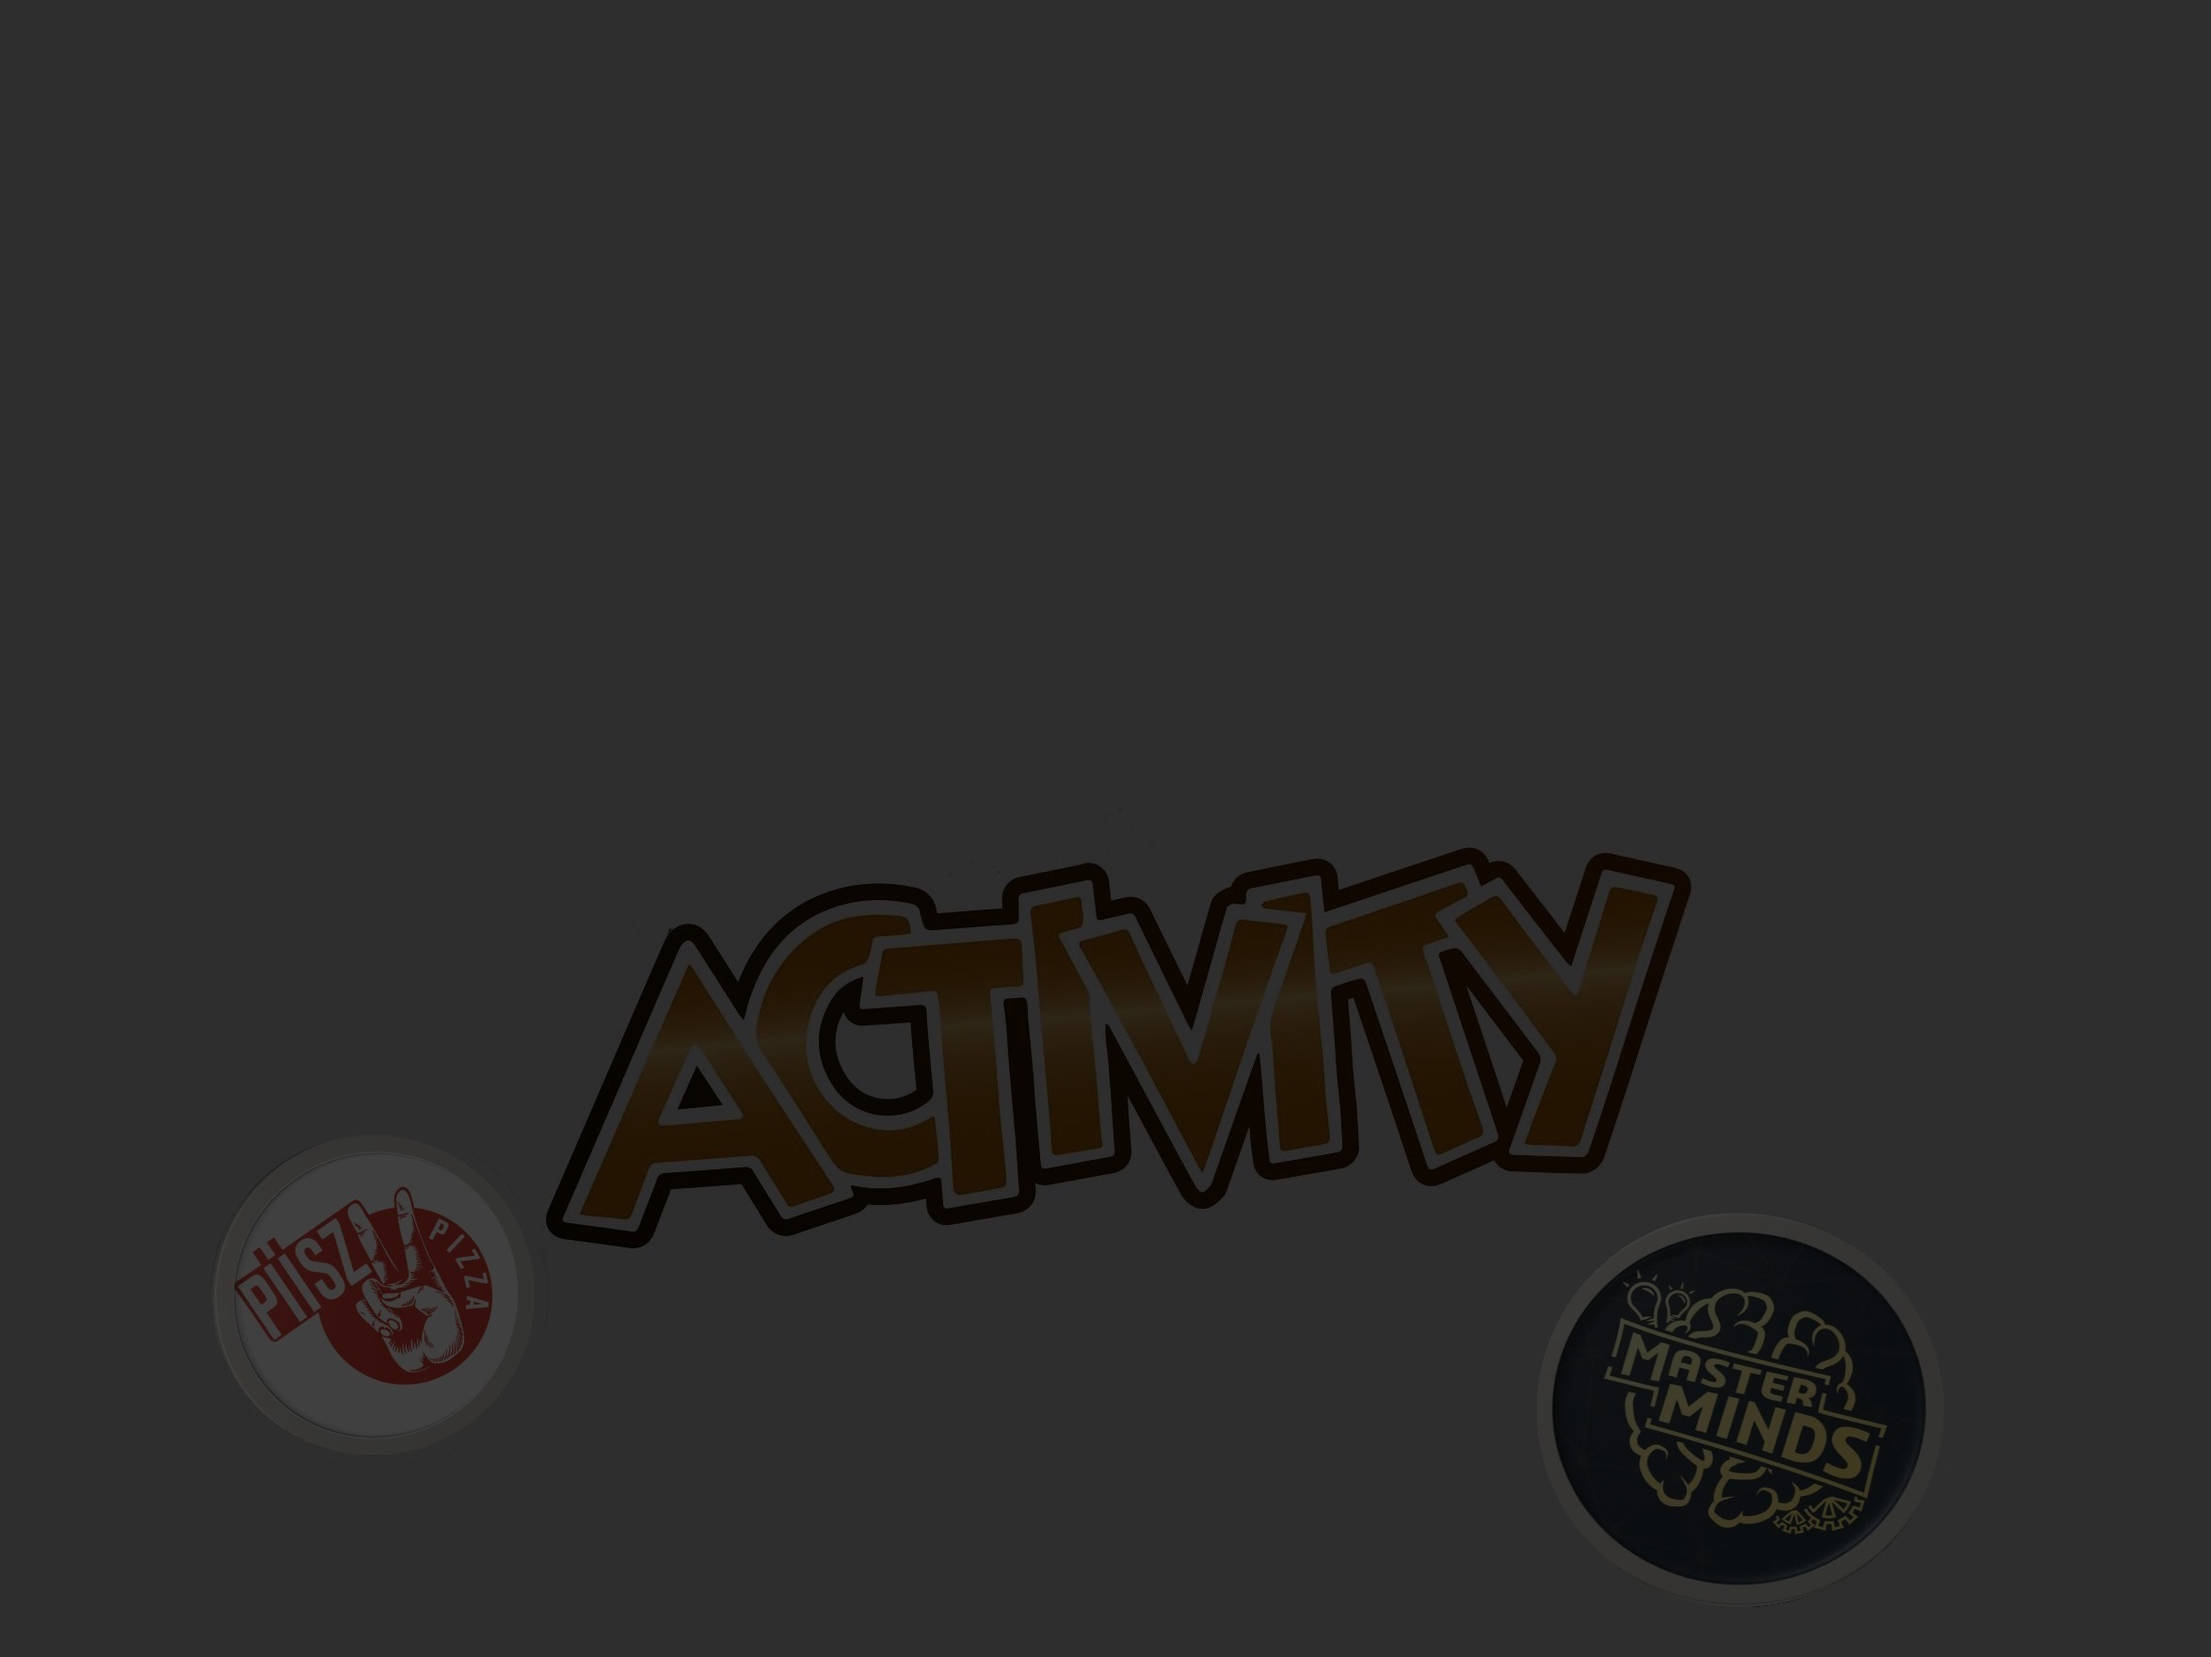
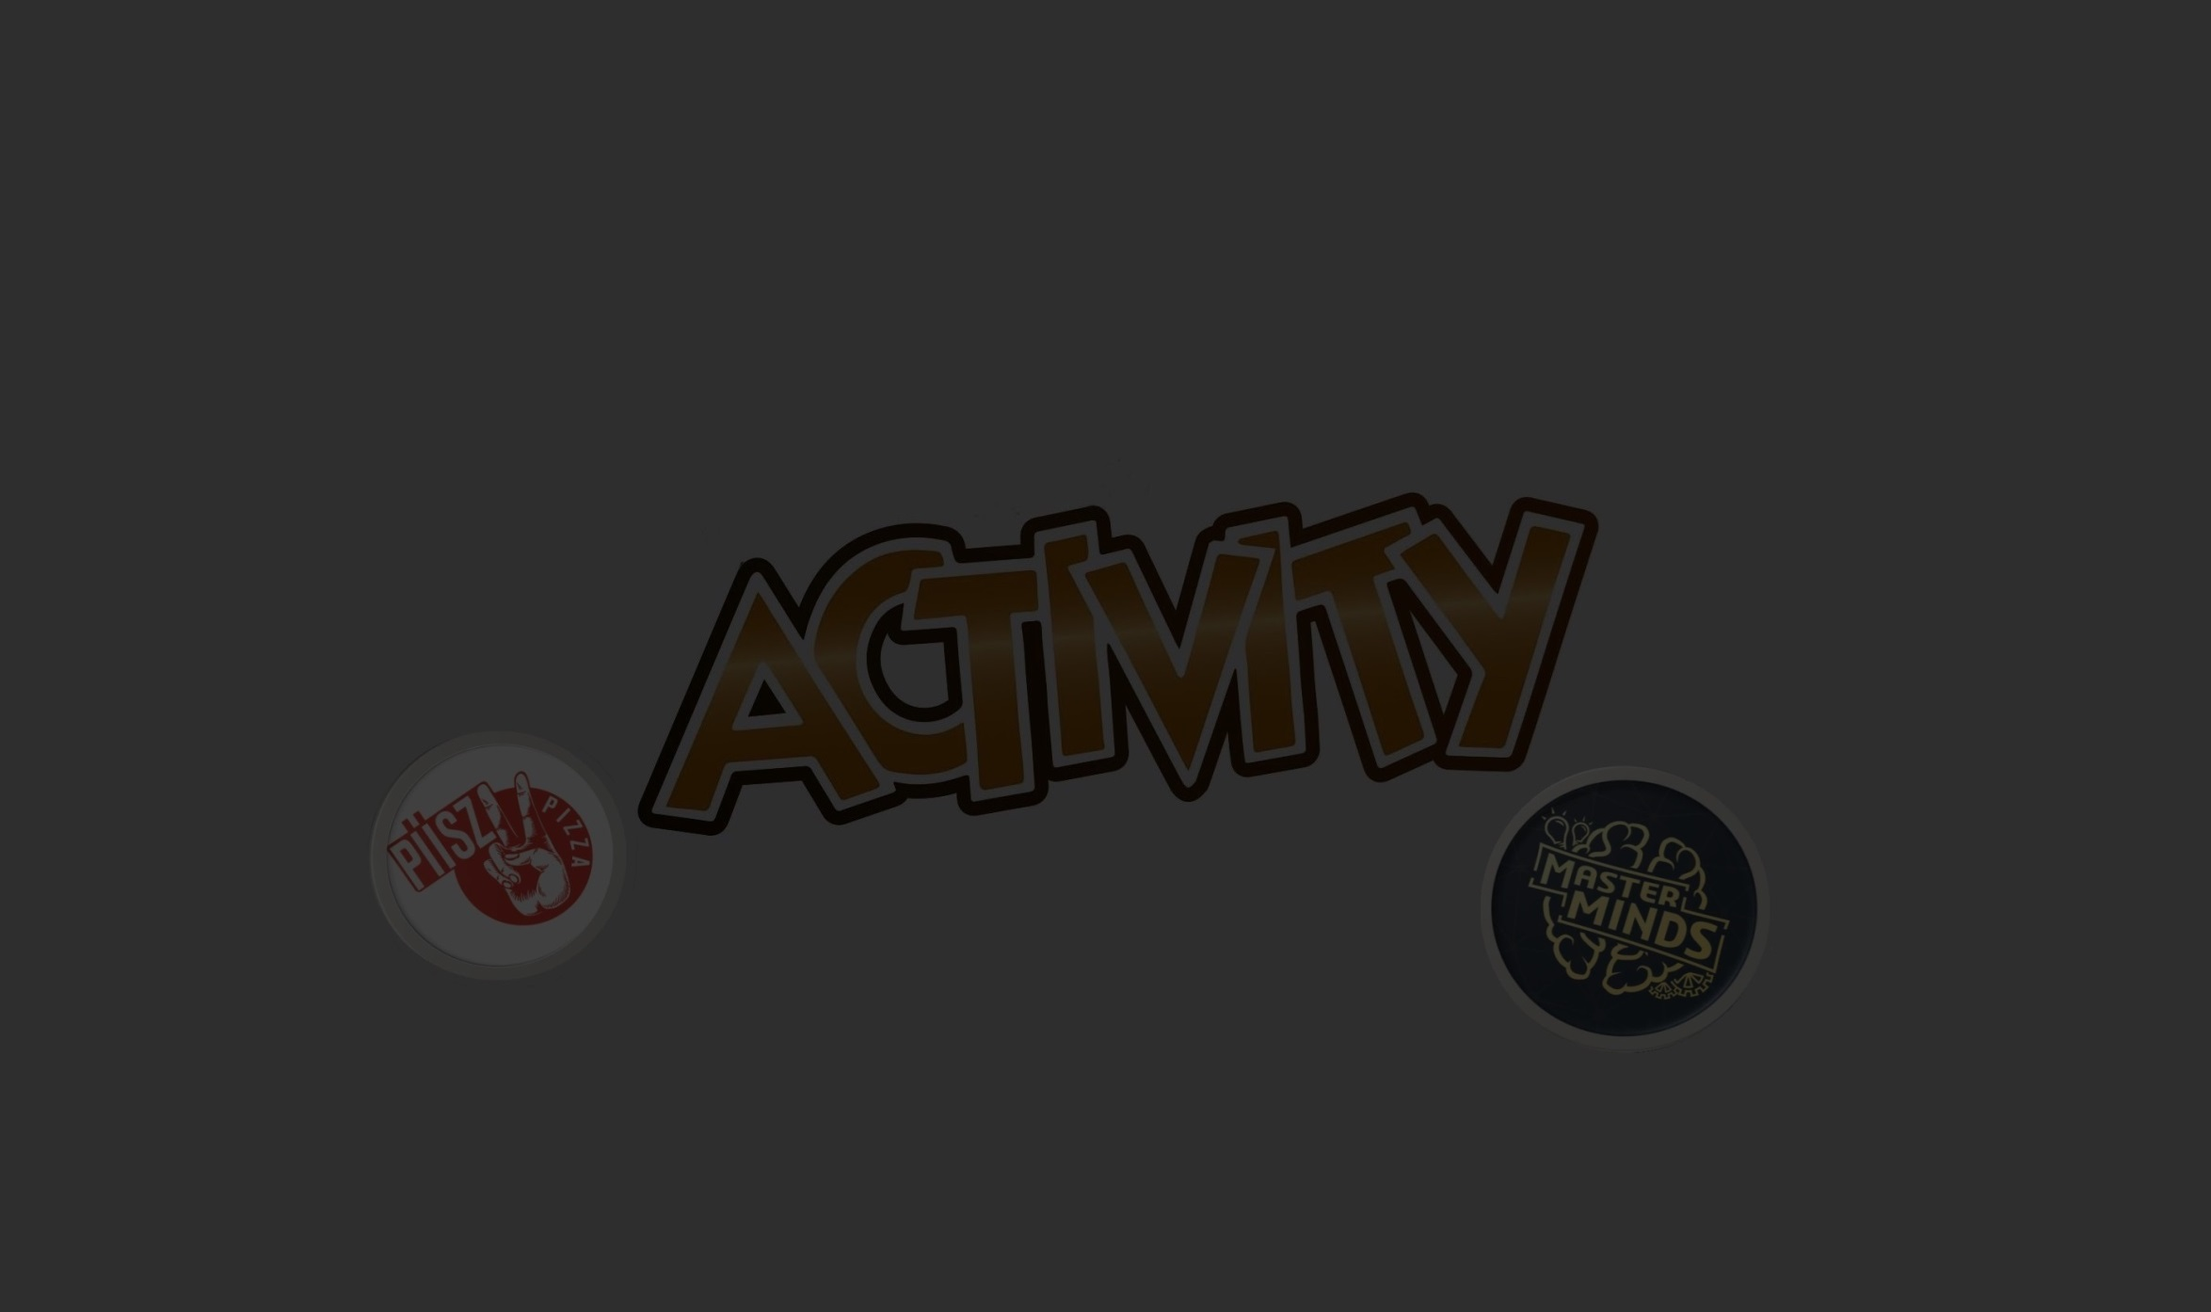
corrected sizes

Changed region(s): [[0.1865, 0.3702, 0.8702, 0.9562], [0.0932, 0.7095, 0.2486, 0.8329]]

diff --git a/style.css b/style.css
@@ -60,8 +60,8 @@ canvas {
 
 .jatekosNagy {
 	text-align: center;
-	margin: 20px;
-	width: 380px;
+	margin: 10px;
+	width: 340px;
     color:white;
 }
 
